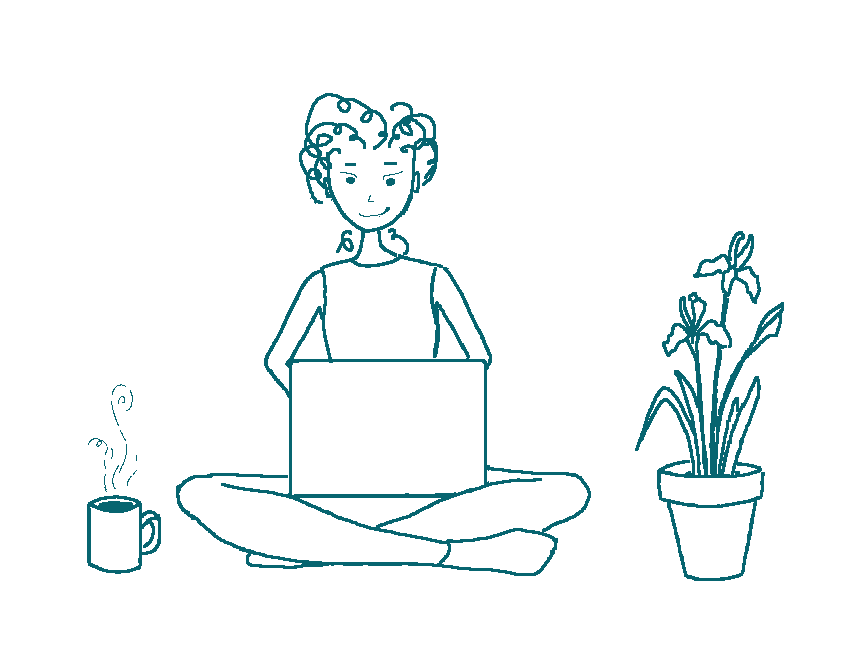
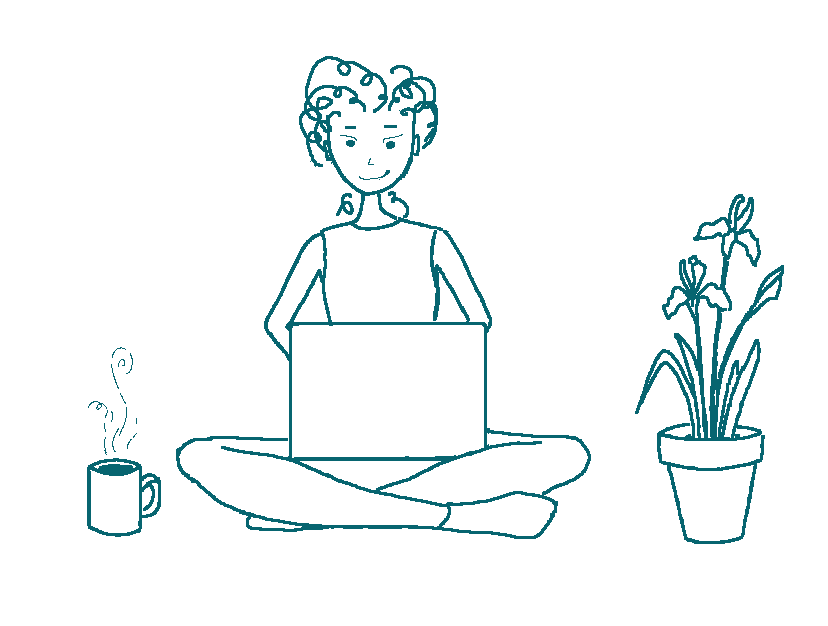
uploaded the croped about drawing to cloudinary and replaced the url

Changed region(s): [[0.0906, 0.0911, 0.7246, 0.8802], [0.7246, 0.3035, 0.9662, 0.8802]]

diff --git a/about.html b/about.html
@@ -26,8 +26,7 @@
         <p>&nbsp;&nbsp; I'm passionate about Sustainability, Renewable Energy and working in multicultural environments. Just graduated from a Full Stack development bootcamp, currently looking for the next opportunity to gain experience as a junior developer!</p>
         <p>&nbsp;&nbsp; During my studies in Chemical and Energy Engineering I’ve focused mostly in the intersection between the two, which translates into things like bioplastics, biodiesel and waste to energy. I wanted to dive deeper into the programming world, so I’ve recently completed an intensive web development bootcamp, and now I wish to combine my interests in renewable energy and sustainability with my recently acquired coding skills. In parallel to my “scientific side”, I also have an artistic one which I’ve nurtured via hobbies and volunteer work. I’ve learned about graphic and UX Design due to my work for the <a href="https://issuu.com/communitybyinnoenergy/docs/3rd_mag_online" target="_blank" class="text-link">CommUnity Post</a> and full stack development seemed like an opportunity to finally combine these two parts of me into one.</p>
       </div>
-      <!-- <img src="https://res.cloudinary.com/dhnsnkxbe/image/upload/v1605442787/portfolio/about_ppn1fu.png" alt="drawing of me working" class="about-img"> -->
-      <img src="pics/about3.png" alt="" class="about-img">
+      <img src="https://res.cloudinary.com/dhnsnkxbe/image/upload/v1605478303/portfolio/about_zjibak.png" alt="drawing of me working" class="about-img">
     </div>
   </div>
 
